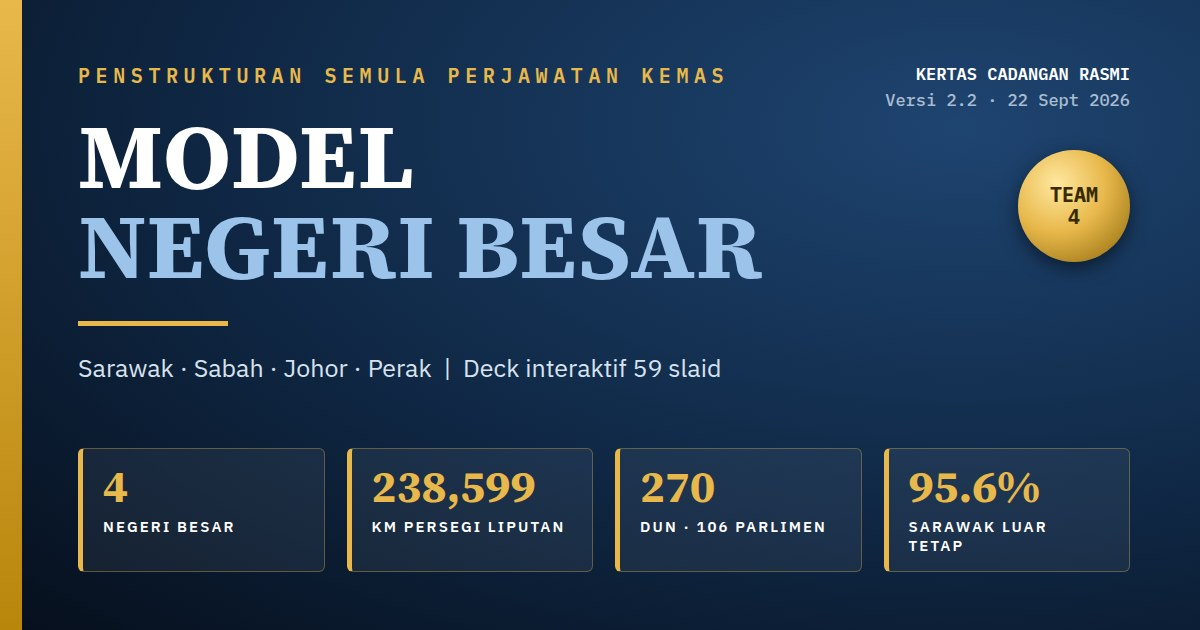
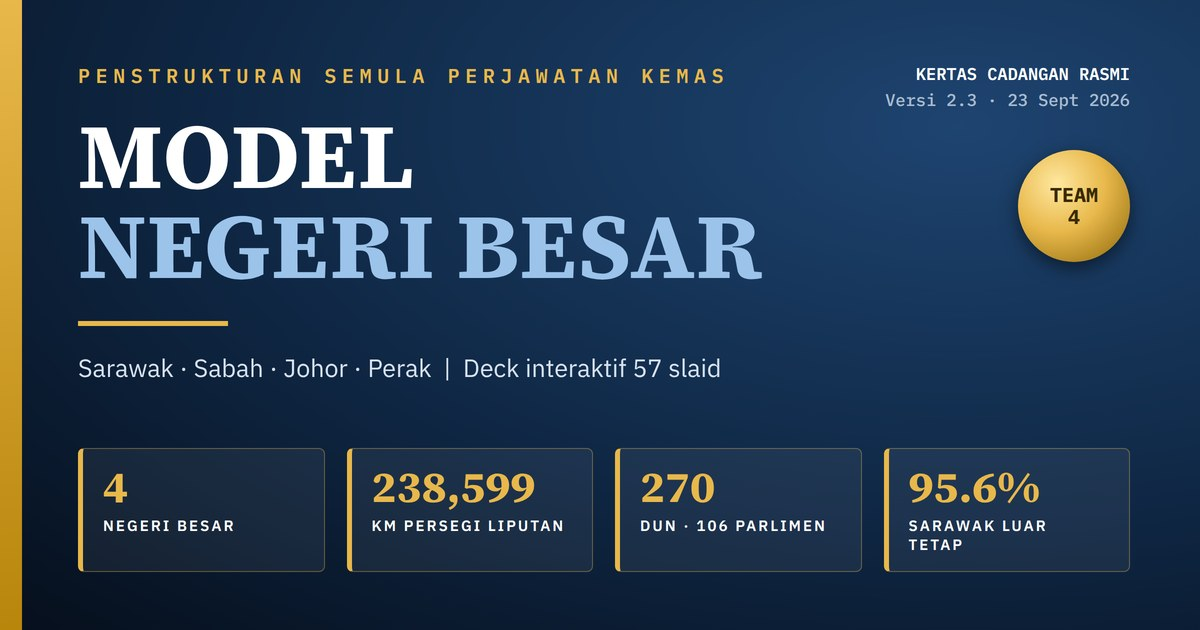
Pulihkan OG tags (pratonton WhatsApp) deck v2.3 + og-image dikemas kini ke Versi 2.3, 57 slaid

diff --git a/index.html b/index.html
@@ -1,4 +1,14 @@
 <title>Cadangan Penstrukturan Model Negeri Besar</title>
+<meta name="description" content="Deck interaktif Kertas Cadangan Penstrukturan Semula Perjawatan KEMAS Model Negeri Besar (Versi 2.3, 23 September 2026).">
+<meta property="og:type" content="website">
+<meta property="og:title" content="Cadangan Penstrukturan Semula Perjawatan KEMAS: Model Negeri Besar">
+<meta property="og:description" content="Deck interaktif Kertas Cadangan Versi 2.3 · Sarawak, Sabah, Johor dan Perak.">
+<meta property="og:url" content="https://brotaufik.github.io/kemas-model-negeri-besar/">
+<meta property="og:image" content="https://brotaufik.github.io/kemas-model-negeri-besar/og-image.jpg">
+<meta property="og:image:width" content="1200">
+<meta property="og:image:height" content="630">
+<meta name="twitter:card" content="summary_large_image">
+<meta name="twitter:image" content="https://brotaufik.github.io/kemas-model-negeri-besar/og-image.jpg">
 <link rel="preconnect" href="https://fonts.googleapis.com">
 <link rel="preconnect" href="https://fonts.gstatic.com" crossorigin>
 <link rel="stylesheet" href="https://fonts.googleapis.com/css2?family=Source+Serif+4:opsz,wght@8..60,400;8..60,600;8..60,700&family=IBM+Plex+Sans:wght@400;500;600;700&family=IBM+Plex+Mono:wght@400;500;600&display=swap">
